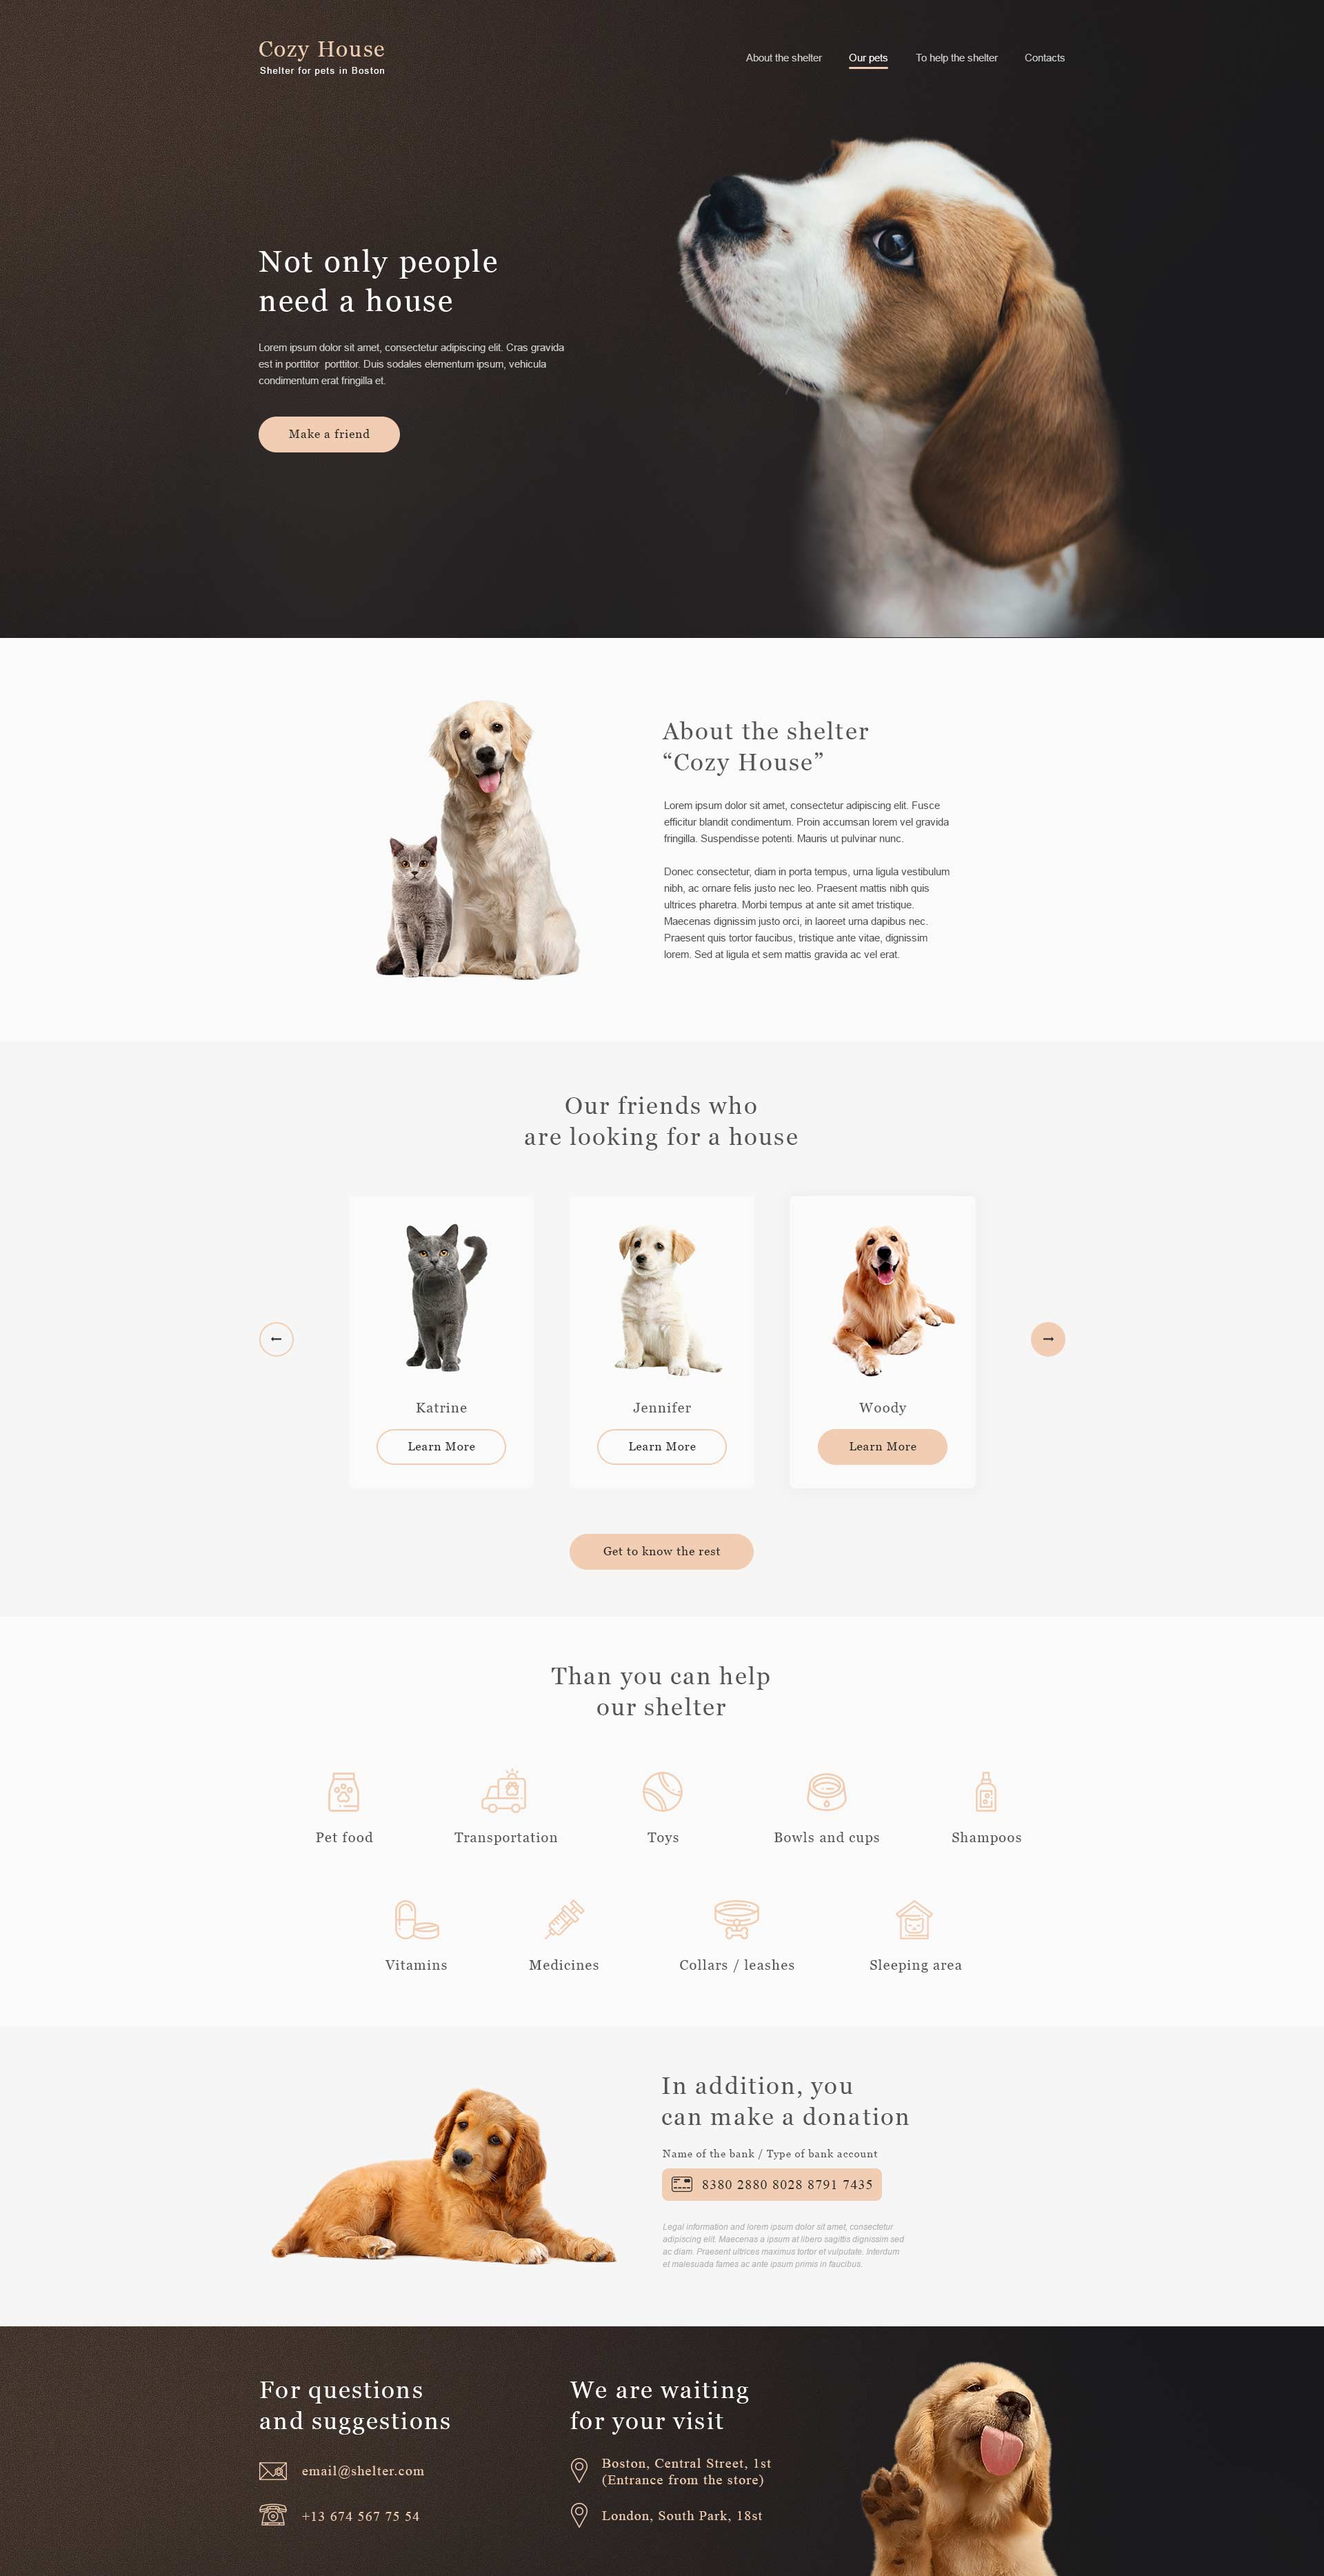
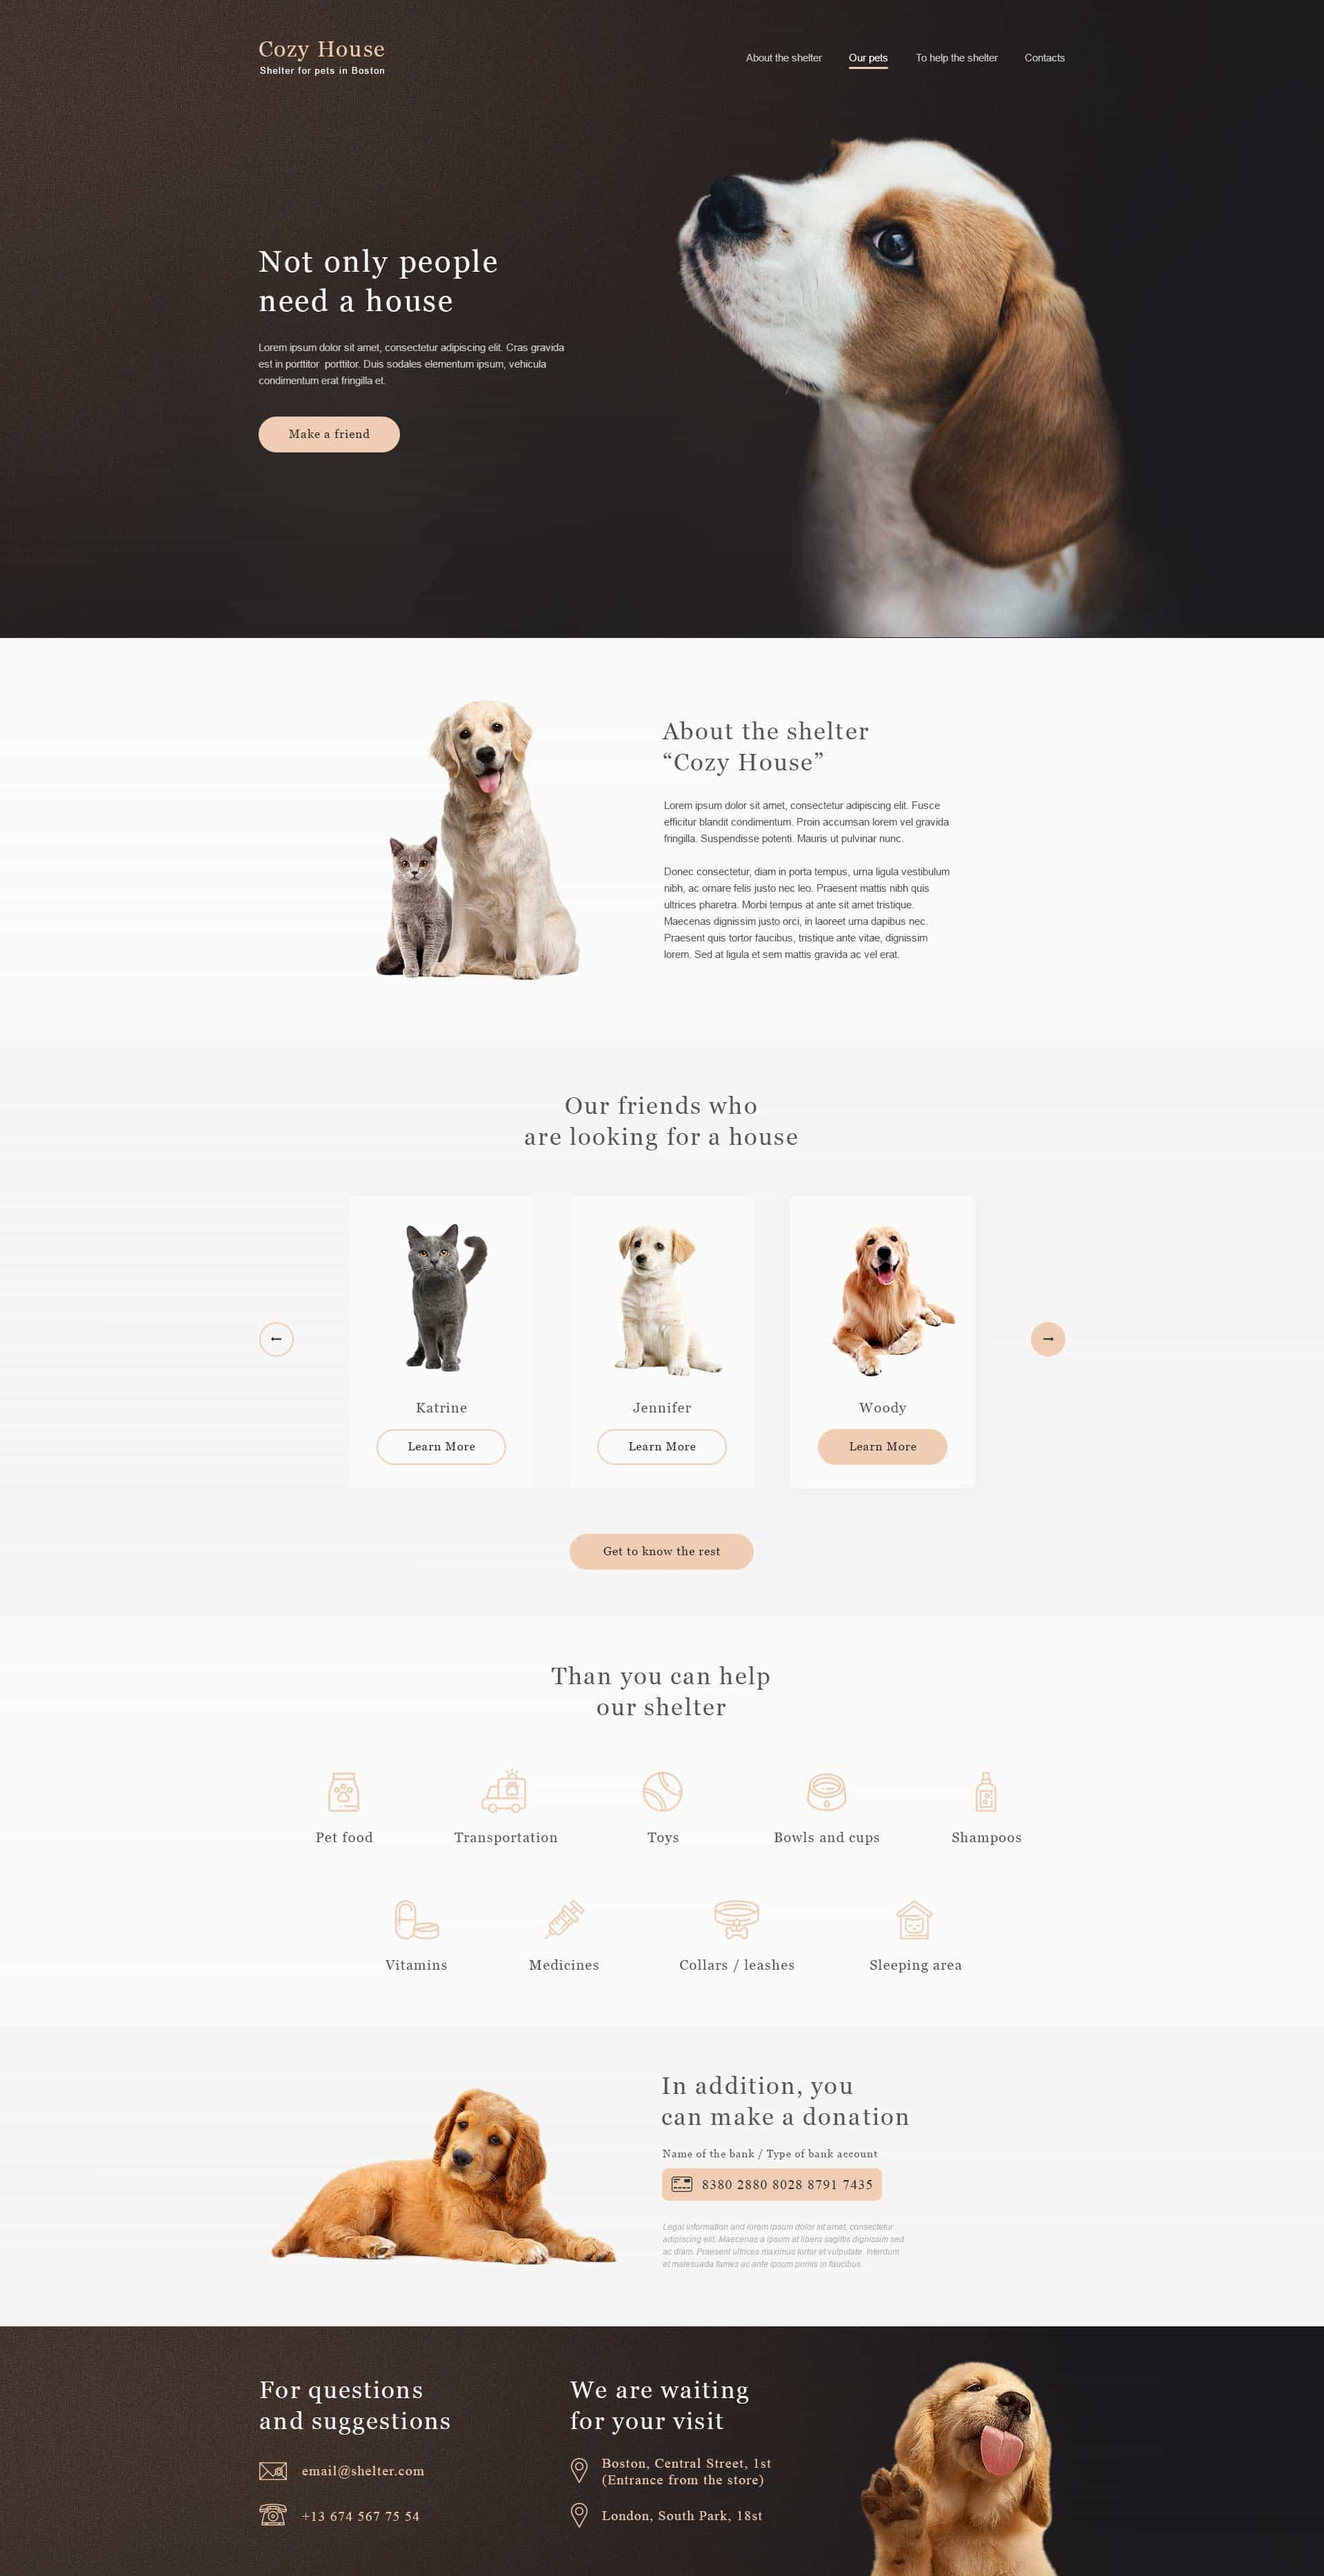
imageminMozjpeg

Changed region(s): [[0.5312, 0.3416, 0.5625, 0.3727]]

diff --git a/gulpfile.js b/gulpfile.js
@@ -7,6 +7,8 @@ var server = require("browser-sync").create();
 var plumber = require("gulp-plumber");
 var imagemin = require("gulp-imagemin");
 var autoprefixer = require('gulp-autoprefixer');
+var imageminJpegRecompress = require('imagemin-jpeg-recompress');
+var imageminMozjpeg = require('imagemin-mozjpeg');
 
 function refresh (done) {
   server.reload();
@@ -39,7 +41,9 @@ function images () {
   return gulp.src("source/bigimg/**/*.{jpg,svg, png}")
   .pipe(imagemin([
     imagemin.optipng({optimizationLevel: 6}),
-    imagemin.jpegtran({progressive: true}),
+    // imagemin.jpegtran({progressive: true}),
+    // imageminJpegRecompress({quality: 'low'}),
+    imageminMozjpeg({quality: 50}),
     imagemin.svgo()
     ]))
   .pipe(gulp.dest("source/img"))
